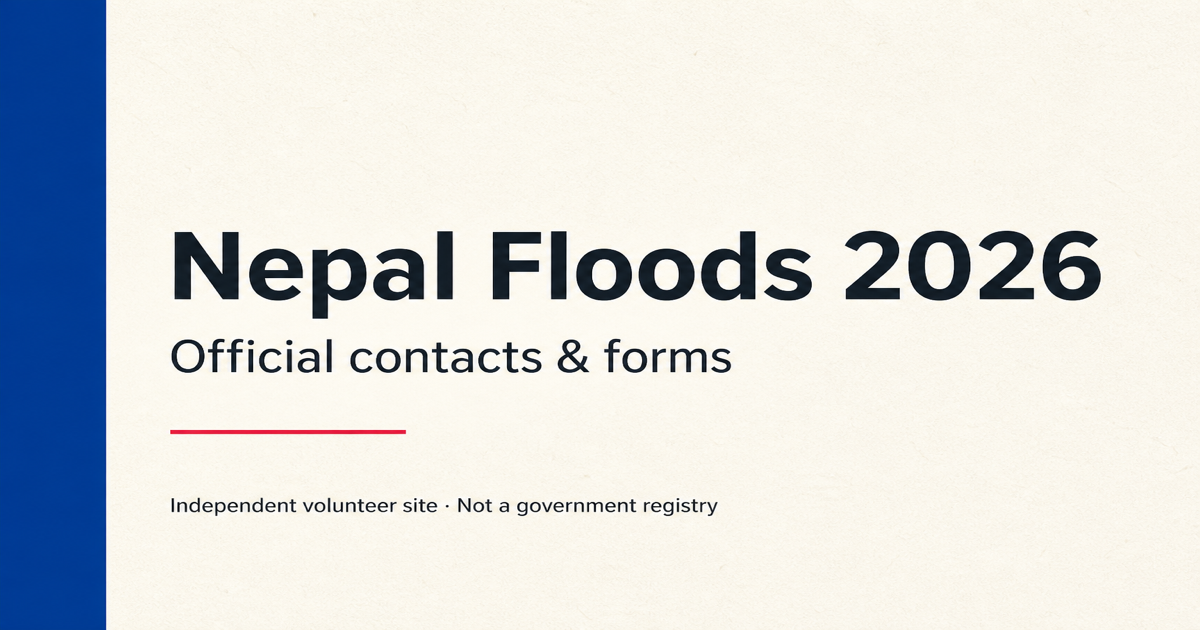
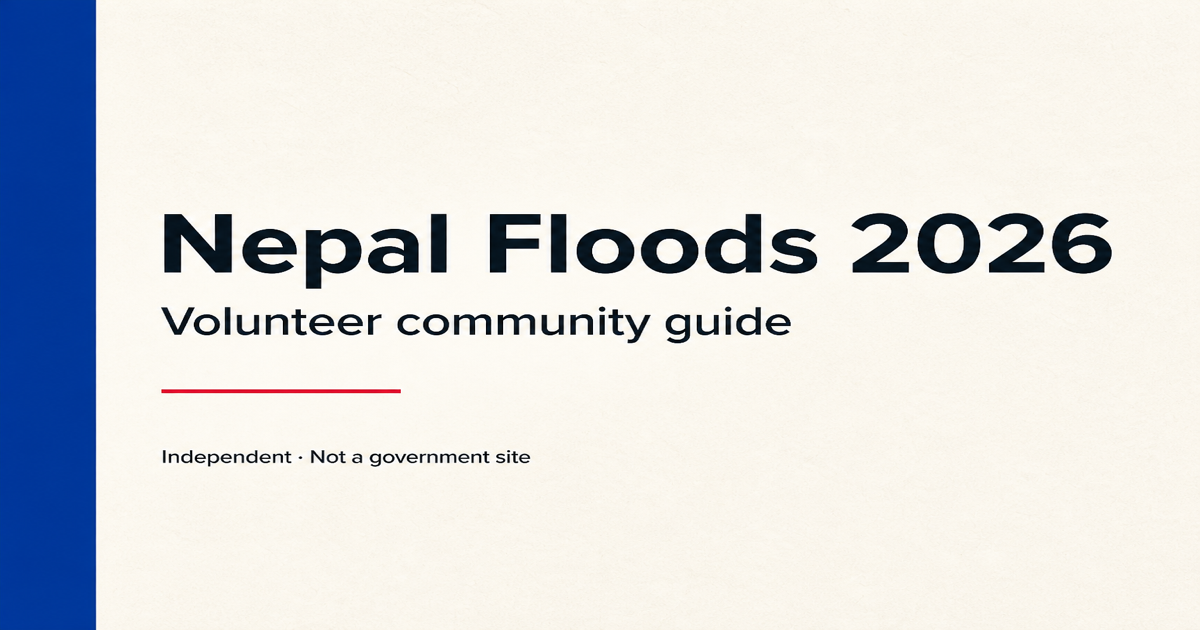
Rebrand share preview as volunteer community, not official.
New OG image and meta titles; LinkedIn must re-inspect to clear old cache.

diff --git a/index.html b/index.html
@@ -3,25 +3,25 @@
 <head>
   <meta charset="UTF-8">
   <meta name="viewport" content="width=device-width, initial-scale=1">
-  <title>2026 Nepal Floods — official contacts, SETU forms &amp; MoFA helplines</title>
-  <meta name="description" content="Volunteer directory for the Aug 2026 Bhotekoshi / Rasuwa / Gyirong / Trishuli floods. Links to SETU &amp; Nepal Police forms, MoFA emergency contacts, India MEA control room, and official bulletins. Not a government site — we do not confirm cases.">
-  <meta name="keywords" content="Bhotekoshi, Rasuwa, Gyirong, Trishuli, MoFA emergency, MEA control room, SETU, Nepal Police, flash flood 2026">
+  <title>Nepal Floods 2026 — volunteer community guide to contacts &amp; forms</title>
+  <meta name="description" content="Community volunteer directory for the Aug 2026 Bhotekoshi / Rasuwa / Gyirong floods. Links to SETU, Nepal Police, MoFA and MEA contacts. Not a government site — we do not confirm cases.">
+  <meta name="keywords" content="Bhotekoshi, Rasuwa, Gyirong, Trishuli, MoFA emergency, MEA control room, SETU, Nepal Police, flash flood 2026, volunteer">
   <meta name="robots" content="index, follow">
   <meta property="og:type" content="website">
-  <meta property="og:site_name" content="2026 Nepal Floods">
+  <meta property="og:site_name" content="Nepal Floods 2026 · Volunteer community">
   <meta property="og:locale" content="en_US">
   <meta property="og:url" content="https://2026-nepal-floods.vercel.app/">
-  <meta property="og:title" content="2026 Nepal Floods — official contacts, SETU forms &amp; MoFA helplines">
-  <meta property="og:description" content="Find SETU, Nepal Police, MoFA and MEA contacts for Bhotekoshi / Rasuwa / Gyirong. Independent volunteer site — not a government registry.">
-  <meta property="og:image" content="https://2026-nepal-floods.vercel.app/assets/og-share.png?v=3">
+  <meta property="og:title" content="Nepal Floods 2026 — volunteer community guide">
+  <meta property="og:description" content="Independent volunteer directory of SETU, Nepal Police, MoFA and MEA links. Not a government site.">
+  <meta property="og:image" content="https://2026-nepal-floods.vercel.app/assets/og-share.png?v=4">
   <meta property="og:image:type" content="image/png">
   <meta property="og:image:width" content="1200">
   <meta property="og:image:height" content="630">
-  <meta property="og:image:alt" content="2026 Nepal Floods — official contacts and forms. Independent volunteer site.">
+  <meta property="og:image:alt" content="Nepal Floods 2026 — volunteer community guide. Not a government site.">
   <meta name="twitter:card" content="summary_large_image">
-  <meta name="twitter:title" content="2026 Nepal Floods — official contacts, SETU forms &amp; MoFA helplines">
-  <meta name="twitter:description" content="SETU, Nepal Police, MoFA and MEA links for the Bhotekoshi / Rasuwa floods. Volunteer contact directory.">
-  <meta name="twitter:image" content="https://2026-nepal-floods.vercel.app/assets/og-share.png?v=3">
+  <meta name="twitter:title" content="Nepal Floods 2026 — volunteer community guide">
+  <meta name="twitter:description" content="Independent volunteer directory of flood contacts and forms. Not a government site.">
+  <meta name="twitter:image" content="https://2026-nepal-floods.vercel.app/assets/og-share.png?v=4">
   <link rel="canonical" href="https://2026-nepal-floods.vercel.app/">
   <meta http-equiv="Cache-Control" content="no-cache, no-store, must-revalidate">
   <link rel="stylesheet" href="/css/style.css?v=layout12">
@@ -144,7 +144,7 @@
       <a href="/feedback.html" class="btn btn-secondary" data-i18n="volunteerStripCta">Feedback & volunteer →</a>
     </div>
 
-    <footer class="site-footer" data-i18n="footer">Volunteer site — contacts, links & updates only.</footer>
+    <footer class="site-footer" data-i18n="footer">Community volunteer site — not official. Contacts, links & updates only.</footer>
   </div>
   <script src="/js/common.js?v=layout11"></script>
 

diff --git a/report.html b/report.html
@@ -9,11 +9,11 @@
   <meta name="robots" content="index, follow">
   <link rel="canonical" href="https://2026-nepal-floods.vercel.app/report.html">
   <meta property="og:type" content="website">
-  <meta property="og:site_name" content="2026 Nepal Floods">
+  <meta property="og:site_name" content="Nepal Floods 2026 · Volunteer community">
   <meta property="og:url" content="https://2026-nepal-floods.vercel.app/report.html">
   <meta property="og:title" content="Report missing person — MoFA &amp; MEA helper">
   <meta property="og:description" content="Guided form to contact MoFA emergency and MEA control room. Volunteer tool — not an official filing.">
-  <meta property="og:image" content="https://2026-nepal-floods.vercel.app/assets/og-share.png?v=3">
+  <meta property="og:image" content="https://2026-nepal-floods.vercel.app/assets/og-share.png?v=4">
   <meta name="twitter:card" content="summary_large_image">
   <link rel="stylesheet" href="/css/style.css?v=layout11">
 </head>
@@ -107,7 +107,7 @@
       <a class="btn btn-secondary" href="/resources.html">Search all contacts →</a>
     </section>
 
-    <footer class="site-footer" data-i18n="footer">Volunteer site — contacts, links & updates only.</footer>
+    <footer class="site-footer" data-i18n="footer">Community volunteer site — not official. Contacts, links & updates only.</footer>
   </div>
   <script src="/js/common.js?v=layout11"></script>
   <script src="/js/report.js?v=layout4"></script>

diff --git a/feedback.html b/feedback.html
@@ -3,6 +3,7 @@
 <head>
   <meta charset="UTF-8">
   <meta name="viewport" content="width=device-width, initial-scale=1">
+  <meta property="og:site_name" content="Nepal Floods 2026 · Volunteer community">
   <title>Feedback &amp; volunteer — improve this site | 2026 Nepal Floods</title>
   <meta name="description" content="Send feedback or volunteer ideas to improve this independent 2026 Nepal Floods contact directory (Bhotekoshi / Rasuwa / Gyirong). Not for missing-person cases.">
   <meta name="robots" content="index, follow">
@@ -10,7 +11,7 @@
   <meta property="og:type" content="website">
   <meta property="og:url" content="https://2026-nepal-floods.vercel.app/feedback.html">
   <meta property="og:title" content="Feedback &amp; volunteer — 2026 Nepal Floods">
-  <meta property="og:image" content="https://2026-nepal-floods.vercel.app/assets/og-share.png?v=3">
+  <meta property="og:image" content="https://2026-nepal-floods.vercel.app/assets/og-share.png?v=4">
   <link rel="stylesheet" href="/css/style.css?v=layout11">
 </head>
 <body data-page="feedback">
@@ -70,7 +71,7 @@
     </div>
     </div>
 
-    <footer class="site-footer" data-i18n="footer">Volunteer site — contacts, links & updates only.</footer>
+    <footer class="site-footer" data-i18n="footer">Community volunteer site — not official. Contacts, links & updates only.</footer>
   </div>
   <script src="/js/common.js?v=layout11"></script>
   <script>

diff --git a/search.html b/search.html
@@ -9,11 +9,11 @@
   <meta name="robots" content="index, follow">
   <link rel="canonical" href="https://2026-nepal-floods.vercel.app/search.html">
   <meta property="og:type" content="website">
-  <meta property="og:site_name" content="2026 Nepal Floods">
+  <meta property="og:site_name" content="Nepal Floods 2026 · Volunteer community">
   <meta property="og:url" content="https://2026-nepal-floods.vercel.app/search.html">
   <meta property="og:title" content="Check if found — Nepal Police UDB &amp; SETU">
   <meta property="og:description" content="Official found and rescued list links for the 2026 Nepal floods. Volunteer site — verify on government portals.">
-  <meta property="og:image" content="https://2026-nepal-floods.vercel.app/assets/og-share.png?v=3">
+  <meta property="og:image" content="https://2026-nepal-floods.vercel.app/assets/og-share.png?v=4">
   <meta name="twitter:card" content="summary_large_image">
   <link rel="stylesheet" href="/css/style.css?v=layout11">
 </head>
@@ -85,7 +85,7 @@
       </div>
     </div>
 
-    <footer class="site-footer" data-i18n="footer">Volunteer site — contacts, links & updates only.</footer>
+    <footer class="site-footer" data-i18n="footer">Community volunteer site — not official. Contacts, links & updates only.</footer>
   </div>
   <script src="/js/common.js?v=layout11"></script>
   <script src="/js/search.js?v=theme1"></script>

diff --git a/updates.html b/updates.html
@@ -9,11 +9,11 @@
   <meta name="robots" content="index, follow">
   <link rel="canonical" href="https://2026-nepal-floods.vercel.app/updates.html">
   <meta property="og:type" content="website">
-  <meta property="og:site_name" content="2026 Nepal Floods">
+  <meta property="og:site_name" content="Nepal Floods 2026 · Volunteer community">
   <meta property="og:url" content="https://2026-nepal-floods.vercel.app/updates.html">
   <meta property="og:title" content="Bulletin — MoFA Bhotekoshi / Rasuwa flood notes">
   <meta property="og:description" content="Latest MoFA and authority summaries for the 2026 Nepal floods. Verify on the original government page.">
-  <meta property="og:image" content="https://2026-nepal-floods.vercel.app/assets/og-share.png?v=3">
+  <meta property="og:image" content="https://2026-nepal-floods.vercel.app/assets/og-share.png?v=4">
   <meta name="twitter:card" content="summary_large_image">
   <link rel="stylesheet" href="/css/style.css?v=layout11">
 </head>
@@ -102,7 +102,7 @@
     </div>
     </div>
 
-    <footer class="site-footer" data-i18n="footer">Volunteer site — contacts, links & updates only.</footer>
+    <footer class="site-footer" data-i18n="footer">Community volunteer site — not official. Contacts, links & updates only.</footer>
   </div>
   <script src="/js/common.js?v=layout11"></script>
   <script src="/js/updates.js?v=layout11"></script>

diff --git a/wizard.html b/wizard.html
@@ -9,11 +9,11 @@
   <meta name="robots" content="index, follow">
   <link rel="canonical" href="https://2026-nepal-floods.vercel.app/wizard.html">
   <meta property="og:type" content="website">
-  <meta property="og:site_name" content="2026 Nepal Floods">
+  <meta property="og:site_name" content="Nepal Floods 2026 · Volunteer community">
   <meta property="og:url" content="https://2026-nepal-floods.vercel.app/wizard.html">
   <meta property="og:title" content="Who to contact — Bhotekoshi / Rasuwa flood helplines">
   <meta property="og:description" content="Route to MoFA, MEA control room, embassies, or Nepal Police for the 2026 Nepal floods.">
-  <meta property="og:image" content="https://2026-nepal-floods.vercel.app/assets/og-share.png?v=3">
+  <meta property="og:image" content="https://2026-nepal-floods.vercel.app/assets/og-share.png?v=4">
   <meta name="twitter:card" content="summary_large_image">
   <link rel="stylesheet" href="/css/style.css?v=layout11">
 </head>
@@ -47,7 +47,7 @@
       </div>
     </div>
 
-    <footer class="site-footer" data-i18n="footer">Volunteer site — contacts, links & updates only.</footer>
+    <footer class="site-footer" data-i18n="footer">Community volunteer site — not official. Contacts, links & updates only.</footer>
   </div>
   <script src="/js/common.js?v=layout11"></script>
   <script src="/js/wizard.js?v=layout5"></script>

diff --git a/resources.html b/resources.html
@@ -9,11 +9,11 @@
   <meta name="robots" content="index, follow">
   <link rel="canonical" href="https://2026-nepal-floods.vercel.app/resources.html">
   <meta property="og:type" content="website">
-  <meta property="og:site_name" content="2026 Nepal Floods">
+  <meta property="og:site_name" content="Nepal Floods 2026 · Volunteer community">
   <meta property="og:url" content="https://2026-nepal-floods.vercel.app/resources.html">
   <meta property="og:title" content="Helplines — MoFA, MEA, districts &amp; embassies">
   <meta property="og:description" content="Searchable official contacts for the 2026 Bhotekoshi / Rasuwa / Gyirong floods.">
-  <meta property="og:image" content="https://2026-nepal-floods.vercel.app/assets/og-share.png?v=3">
+  <meta property="og:image" content="https://2026-nepal-floods.vercel.app/assets/og-share.png?v=4">
   <meta name="twitter:card" content="summary_large_image">
   <link rel="stylesheet" href="/css/style.css?v=layout11">
 </head>
@@ -84,7 +84,7 @@
     </p>
     </div>
 
-    <footer class="site-footer" data-i18n="footer">Volunteer site — contacts, links & updates only.</footer>
+    <footer class="site-footer" data-i18n="footer">Community volunteer site — not official. Contacts, links & updates only.</footer>
   </div>
   <script src="/js/common.js?v=layout11"></script>
   <script src="/js/resources.js?v=layout7"></script>

diff --git a/js/common.js b/js/common.js
@@ -103,7 +103,7 @@ const I18N = {
     openPortal: "Open portal",
     updatesResourcesLink: "All contacts & numbers →",
     footer:
-      "Volunteer site — contacts, links & bulletin only. Not affiliated with any government. We do not collect personal case data.",
+      "Community volunteer site — not official. Contacts, links & bulletin only. We do not collect personal case data.",
     feedbackLink: "Feedback",
     feedbackVolunteerLink: "Feedback & volunteer",
     feedbackTitle: "Feedback",
@@ -232,7 +232,7 @@ const I18N = {
     openPortal: "पोर्टल खोल्नुहोस्",
     updatesResourcesLink: "सबै सम्पर्क र नम्बर →",
     footer:
-      "स्वयंसेवी साइट — सम्पर्क, लिङ्क र अपडेट मात्र। कुनै सरकारसँग आबद्ध छैन।",
+      "सामुदायिक स्वयंसेवी साइट — आधिकारिक होइन। सम्पर्क, लिङ्क र बुलेटिन मात्र।",
     feedbackLink: "प्रतिक्रिया",
     feedbackVolunteerLink: "प्रतिक्रिया र स्वयंसेवा",
     feedbackTitle: "प्रतिक्रिया",

diff --git a/legal.html b/legal.html
@@ -3,6 +3,7 @@
 <head>
   <meta charset="UTF-8">
   <meta name="viewport" content="width=device-width, initial-scale=1">
+  <meta property="og:site_name" content="Nepal Floods 2026 · Volunteer community">
   <title>Disclaimer, privacy &amp; terms | 2026 Nepal Floods</title>
   <meta name="description" content="Disclaimer and privacy for this volunteer-run Bhotekoshi / Rasuwa / Gyirong flood information site. Not affiliated with MoFA, MEA, Nepal Police, or any embassy.">
   <meta name="robots" content="index, follow">
@@ -113,7 +114,7 @@
       <p class="form-hint legal-updated">अन्तिम अद्यावधिक: ३० अगस्ट २०२६</p>
     </article>
 
-    <footer class="site-footer" data-i18n="footer">Volunteer site — contacts, links & updates only.</footer>
+    <footer class="site-footer" data-i18n="footer">Community volunteer site — not official. Contacts, links & updates only.</footer>
   </div>
   <script src="/js/common.js?v=layout11"></script>
 
